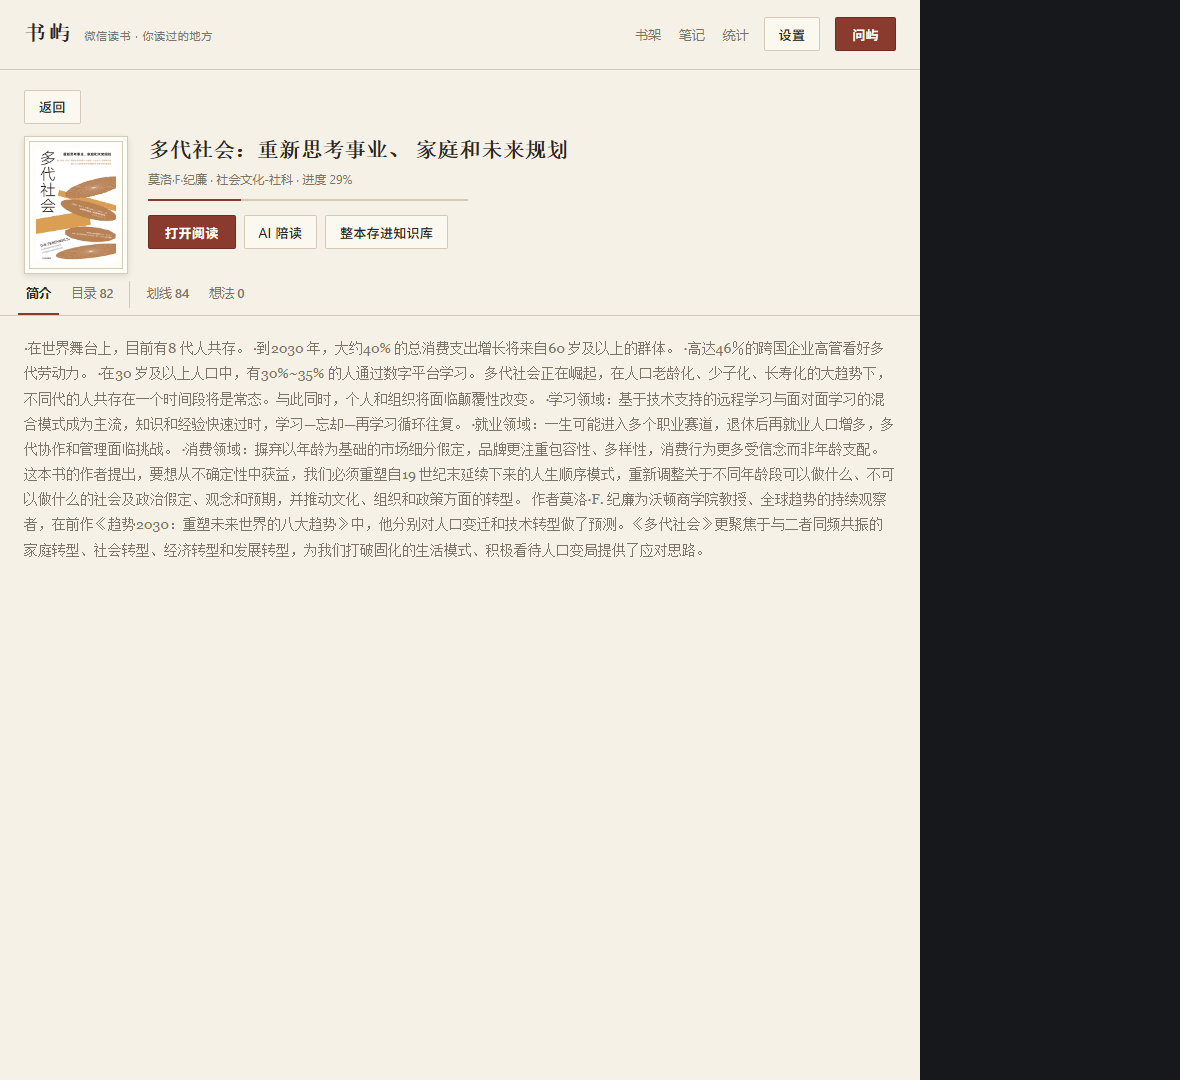
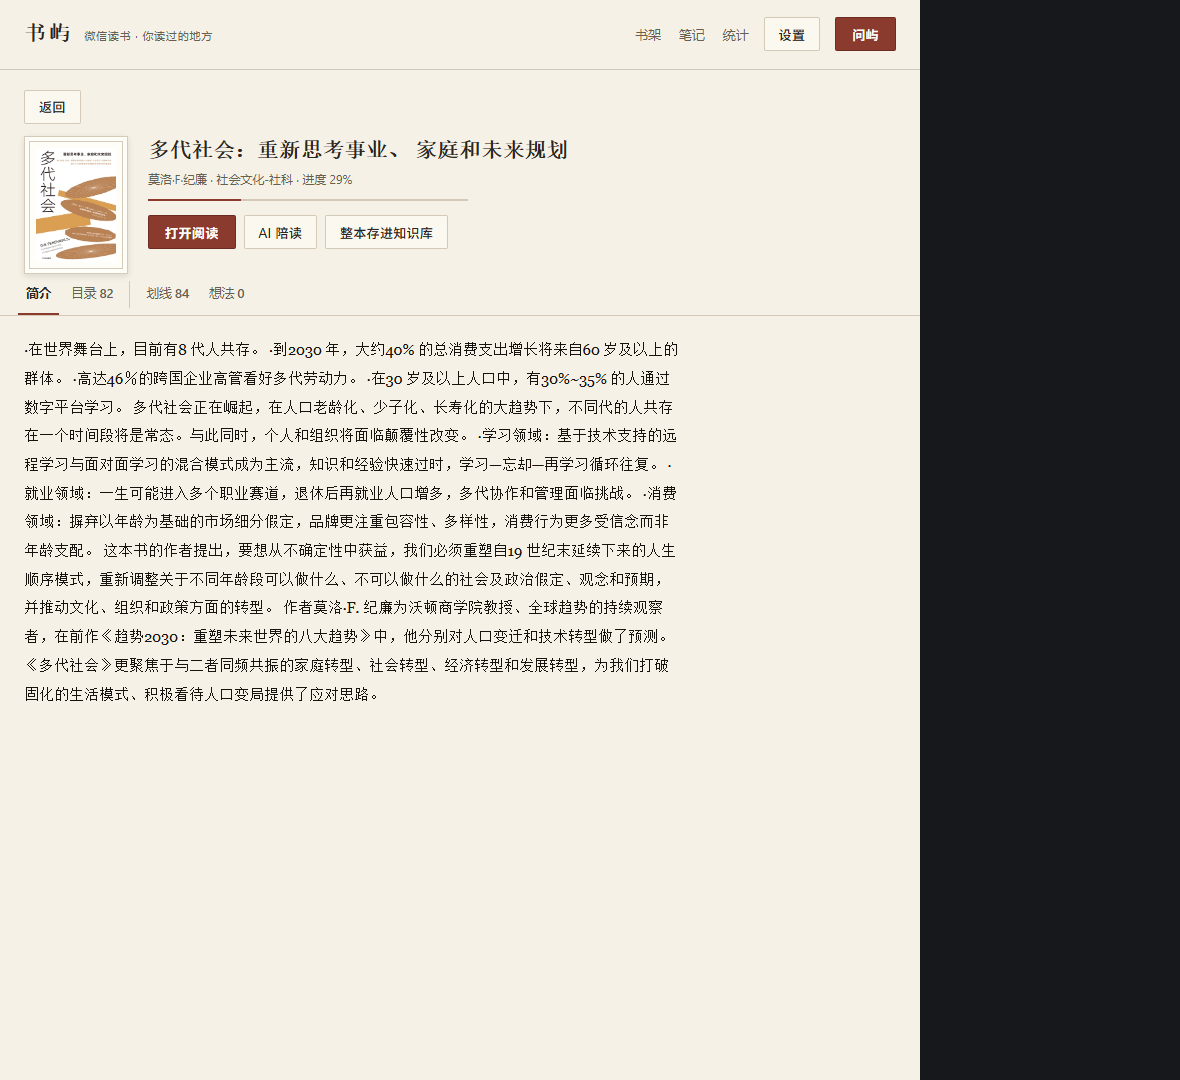
书屿 v0.9.9: 正文提高对比度（简介/划线深墨色 + 字重行高，次要灰调压深）

Changed region(s): [[0.0, 0.3056, 0.7627, 0.6417], [0.3356, 0.6111, 0.3661, 0.6417]]

diff --git a/client.js b/client.js
@@ -328,7 +328,8 @@ window.__ModuleLoader__.load({
       border: 'rgba(203,192,171,.82)',
       border2: 'rgba(184,172,148,.78)',
       text: '#2B2621',
-      dim: '#7C7466',
+      ink: '#17130F',
+      dim: '#685F53',
       brand: BRAND,
       ok: '#3F6B4F',
       warn: '#A26A22',
@@ -620,8 +621,8 @@ window.__ModuleLoader__.load({
         marginBottom: 8,
         background: C.l1,
       },
-      quote: { fontFamily: SERIF, fontSize: 14, lineHeight: 1.8 },
-      quoteMeta: { fontSize: 11, color: C.dim, marginTop: 5, display: 'flex', gap: 10, alignItems: 'center' },
+      quote: { fontFamily: SERIF, fontSize: 14.5, lineHeight: 1.88, color: C.ink, fontWeight: 500 },
+      quoteMeta: { fontSize: 11.5, color: C.dim, marginTop: 5, display: 'flex', gap: 10, alignItems: 'center' },
       drawer: {
         position: 'absolute',
         top: 0,
@@ -1630,7 +1631,7 @@ const now = new Date();
           h('span', { style: { fontSize: 11, color: C.dim, letterSpacing: 1 } }, quote.fresh ? T.todayQuote : T.oldQuote),
           h(
             'span',
-            { style: { fontFamily: SERIF, fontSize: 13.5, lineHeight: 1.7, flex: 1, minWidth: 220, overflow: 'hidden' } },
+            { style: { fontFamily: SERIF, fontSize: 13.5, lineHeight: 1.7, color: C.ink, flex: 1, minWidth: 220, overflow: 'hidden' } },
             `「${quote.highlight.markText}」`,
           ),
           h(
@@ -2528,7 +2529,7 @@ const now = new Date();
           : h('div', { style: S.empty }, T.noChapters);
       } else {
         body = book.intro
-          ? h('div', { style: { ...S.quote, color: C.dim, whiteSpace: 'pre-wrap' } }, book.intro)
+          ? h('div', { style: { ...S.quote, fontSize: 14.5, lineHeight: 1.98, maxWidth: '74ch', whiteSpace: 'pre-wrap' } }, book.intro)
           : h('div', { style: S.empty }, T.noData);
       }
 

diff --git a/CHANGELOG.md b/CHANGELOG.md
@@ -2,6 +2,10 @@
 
 版本号跟着 `package.json` 走，每条对应一个 commit。
 
+## 0.9.9
+
+- 正文提高对比度：简介、划线原文、旧句重逢改用更深的墨色（`#17130F`）并加一点字重，行高放大到 1.88–1.98；次要信息（章节名、时间）的灰调也整体压深一档（`#7C7466 → #685F53`），在米黄纸面上不再发飘。
+
 ## 0.9.8
 
 - 去掉「去原文」：微信读书的段落深链要靠桌面版 App，网页版没有段落锚点，点开也只能停在书的首屏，不如直接「在书屿读」。宿主 `/open` 回到只接受 `https://weread.qq.com` 链接。

diff --git a/README.md b/README.md
@@ -148,6 +148,7 @@ Pull request 都欢迎。
 
 完整记录见 [CHANGELOG.md](CHANGELOG.md)。
 
+- 0.9.9 — 正文提高对比度：简介与划线改用深墨色、字重和行高加大，次要灰调压深
 - 0.9.8 — 去掉「去原文」（网页版没有段落锚点），`/open` 只接受 https 链接
 - 0.9.7 — 「去原文」在没有微信读书桌面版时自动退回网页版，不弹系统对话框
 - 0.9.6 — 划线定位：每条划线可「去原文」，交给微信读书 App 跳到那一段
